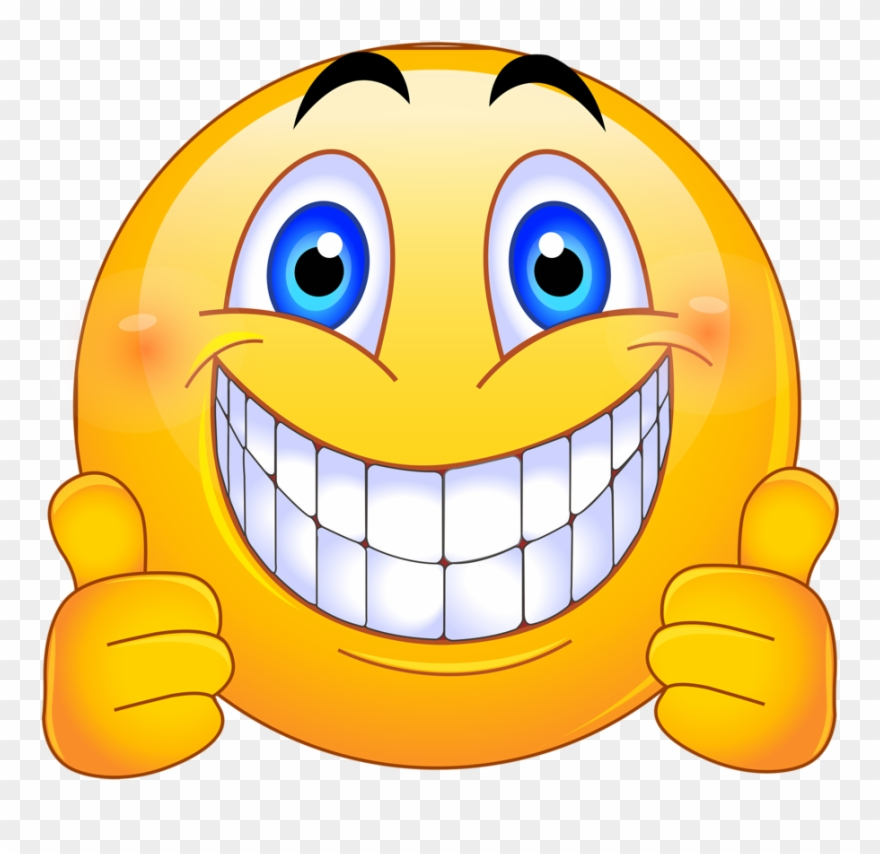
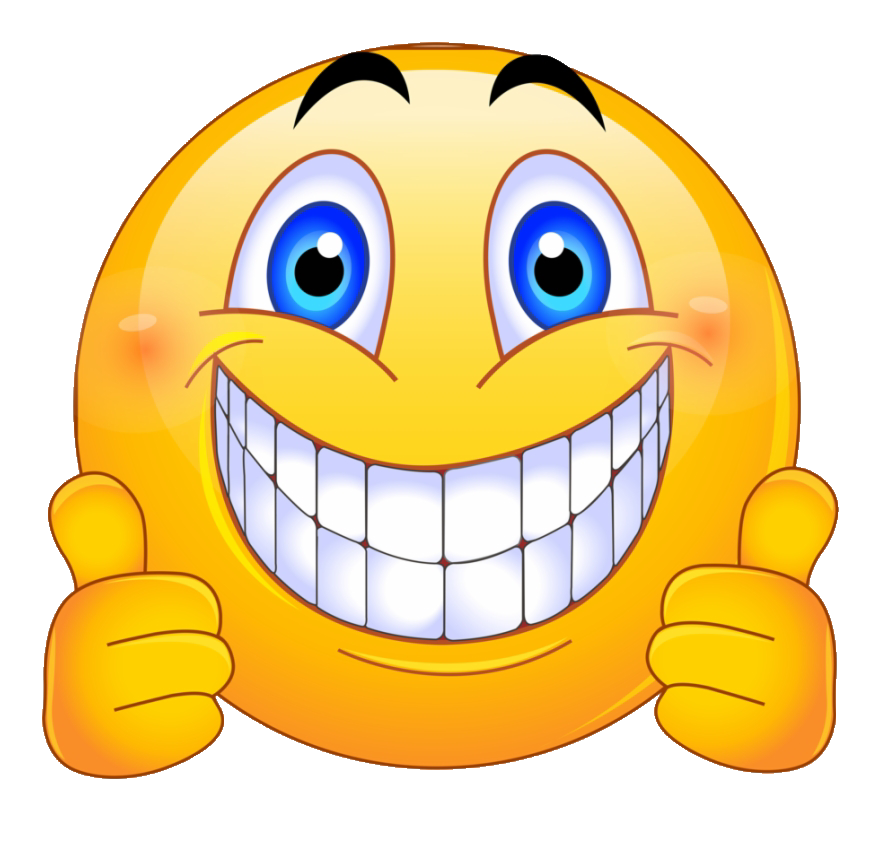
relevamiento visual

diff --git a/app1-relevamiento/src/app/componentes/selector-principal/selector-principal.component.html b/app1-relevamiento/src/app/componentes/selector-principal/selector-principal.component.html
@@ -1,5 +1,5 @@
 <ion-button expand="full" fill='solid' color="success">
-  <ion-img src="../../../assets/emoji-feliz2.png"></ion-img>
+  <ion-img src="../../../assets/emoji-feliz.png"></ion-img>
 </ion-button>
 <ion-button expand="full" fill='solid' color="danger">
   <ion-img src="../../../assets/emoji-triste.png"></ion-img>
